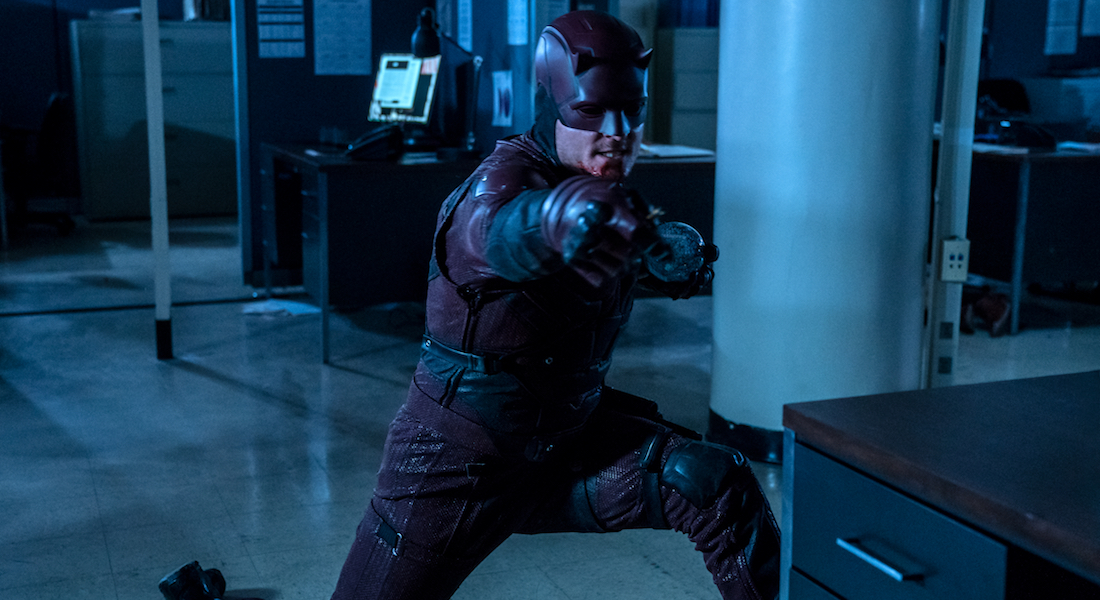
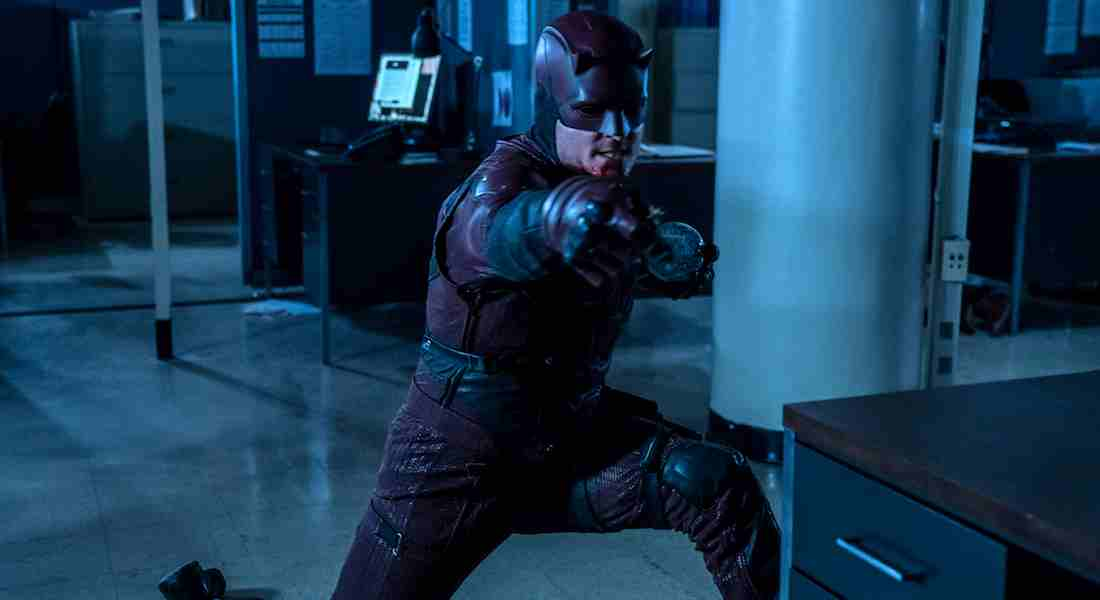
se reduce el peso de las imagenes

diff --git a/pages/Gallery.html b/pages/Gallery.html
@@ -57,12 +57,12 @@
         <h1 class="galleryTitle">Galeria de imagenes de Daredevil</h1>
         <div class="galleryContainer">
           <a
-            href="../assets/gallery/daredevil_one.webp"
+            href="../assets/gallery/daredevil_one.jpg"
             data-lightbox="daredevil"
             data-title="Marvel Daredevil"
           >
             <img
-              src="../assets/gallery/daredevil_one.webp"
+              src="../assets/gallery/daredevil_one.jpg"
               alt="Daredevil Picture"
             />
           </a>
@@ -77,32 +77,32 @@
             />
           </a>
           <a
-            href="../assets/gallery/daredevil_three.webp"
+            href="../assets/gallery/daredevil_three.jpg"
             data-lightbox="daredevil"
             data-title="Marvel Daredevil"
           >
             <img
-              src="../assets/gallery/daredevil_three.webp"
+              src="../assets/gallery/daredevil_three.jpg"
               alt="Daredevil Picture"
             />
           </a>
           <a
-            href="../assets/gallery/daredevil_four.webp"
+            href="../assets/gallery/daredevil_four.jpg"
             data-lightbox="daredevil"
             data-title="Marvel Daredevil"
           >
             <img
-              src="../assets/gallery/daredevil_four.webp"
+              src="../assets/gallery/daredevil_four.jpg"
               alt="Daredevil Picture"
             />
           </a>
           <a
-            href="../assets/gallery/daredevil_five.webp"
+            href="../assets/gallery/daredevil_five.jpg"
             data-lightbox="daredevil"
             data-title="Marvel Daredevil"
           >
             <img
-              src="../assets/gallery/daredevil_five.webp"
+              src="../assets/gallery/daredevil_five.jpg"
               alt="Daredevil Picture"
             />
           </a>
@@ -127,12 +127,12 @@
             />
           </a>
           <a
-            href="../assets/gallery/daredevil_eight.webp"
+            href="../assets/gallery/daredevil_eight.jpg"
             data-lightbox="daredevil"
             data-title="Marvel Daredevil"
           >
             <img
-              src="../assets/gallery/daredevil_eight.webp"
+              src="../assets/gallery/daredevil_eight.jpg"
               alt="Daredevil Picture"
             />
           </a>

diff --git a/pages/Characters/Foggy.html b/pages/Characters/Foggy.html
@@ -88,7 +88,7 @@
         </div>
       </section>
       <section class="characterDescription actorDescription">
-        <img src="../../assets/actors/Elden_Henson.webp" alt="Elden Henson" />
+        <img src="../../assets/actors/Elden_Henson.jpg" alt="Elden Henson" />
         <div>
           <h1>Elden Henson</h1>
           <p>

diff --git a/pages/Characters/Punisher.html b/pages/Characters/Punisher.html
@@ -73,7 +73,7 @@
 
     <article class="characters">
       <section class="characterDescription">
-        <img src="../../assets/characters/The_Punisher.webp" alt="Punisher" />
+        <img src="../../assets/characters/The_Punisher.jpg" alt="Punisher" />
         <div>
           <h1>The Punisher</h1>
           <p>

diff --git a/pages/Characters/Karen.html b/pages/Characters/Karen.html
@@ -73,7 +73,7 @@
 
     <article class="characters">
       <section class="characterDescription">
-        <img src="../../assets/characters/Karen_Page.webp" alt="Karen Page" />
+        <img src="../../assets/characters/Karen_Page.jpg" alt="Karen Page" />
         <div>
           <h1>Karen Page</h1>
           <p>

diff --git a/pages/Characters/Elektra.html b/pages/Characters/Elektra.html
@@ -73,7 +73,7 @@
 
     <article class="characters">
       <section class="characterDescription">
-        <img src="../../assets/characters/Elektra.jpeg" alt="Elektra" />
+        <img src="../../assets/characters/Elektra.jpg" alt="Elektra" />
         <div>
           <h1>Elektra</h1>
           <p>

diff --git a/pages/Characters/Kingpin.html b/pages/Characters/Kingpin.html
@@ -73,7 +73,7 @@
 
     <article class="characters">
       <section class="characterDescription">
-        <img src="../../assets/characters/KingPin.webp" alt="KingPin" />
+        <img src="../../assets/characters/KingPin.jpg" alt="KingPin" />
         <div>
           <h1>KingPin</h1>
           <p>
